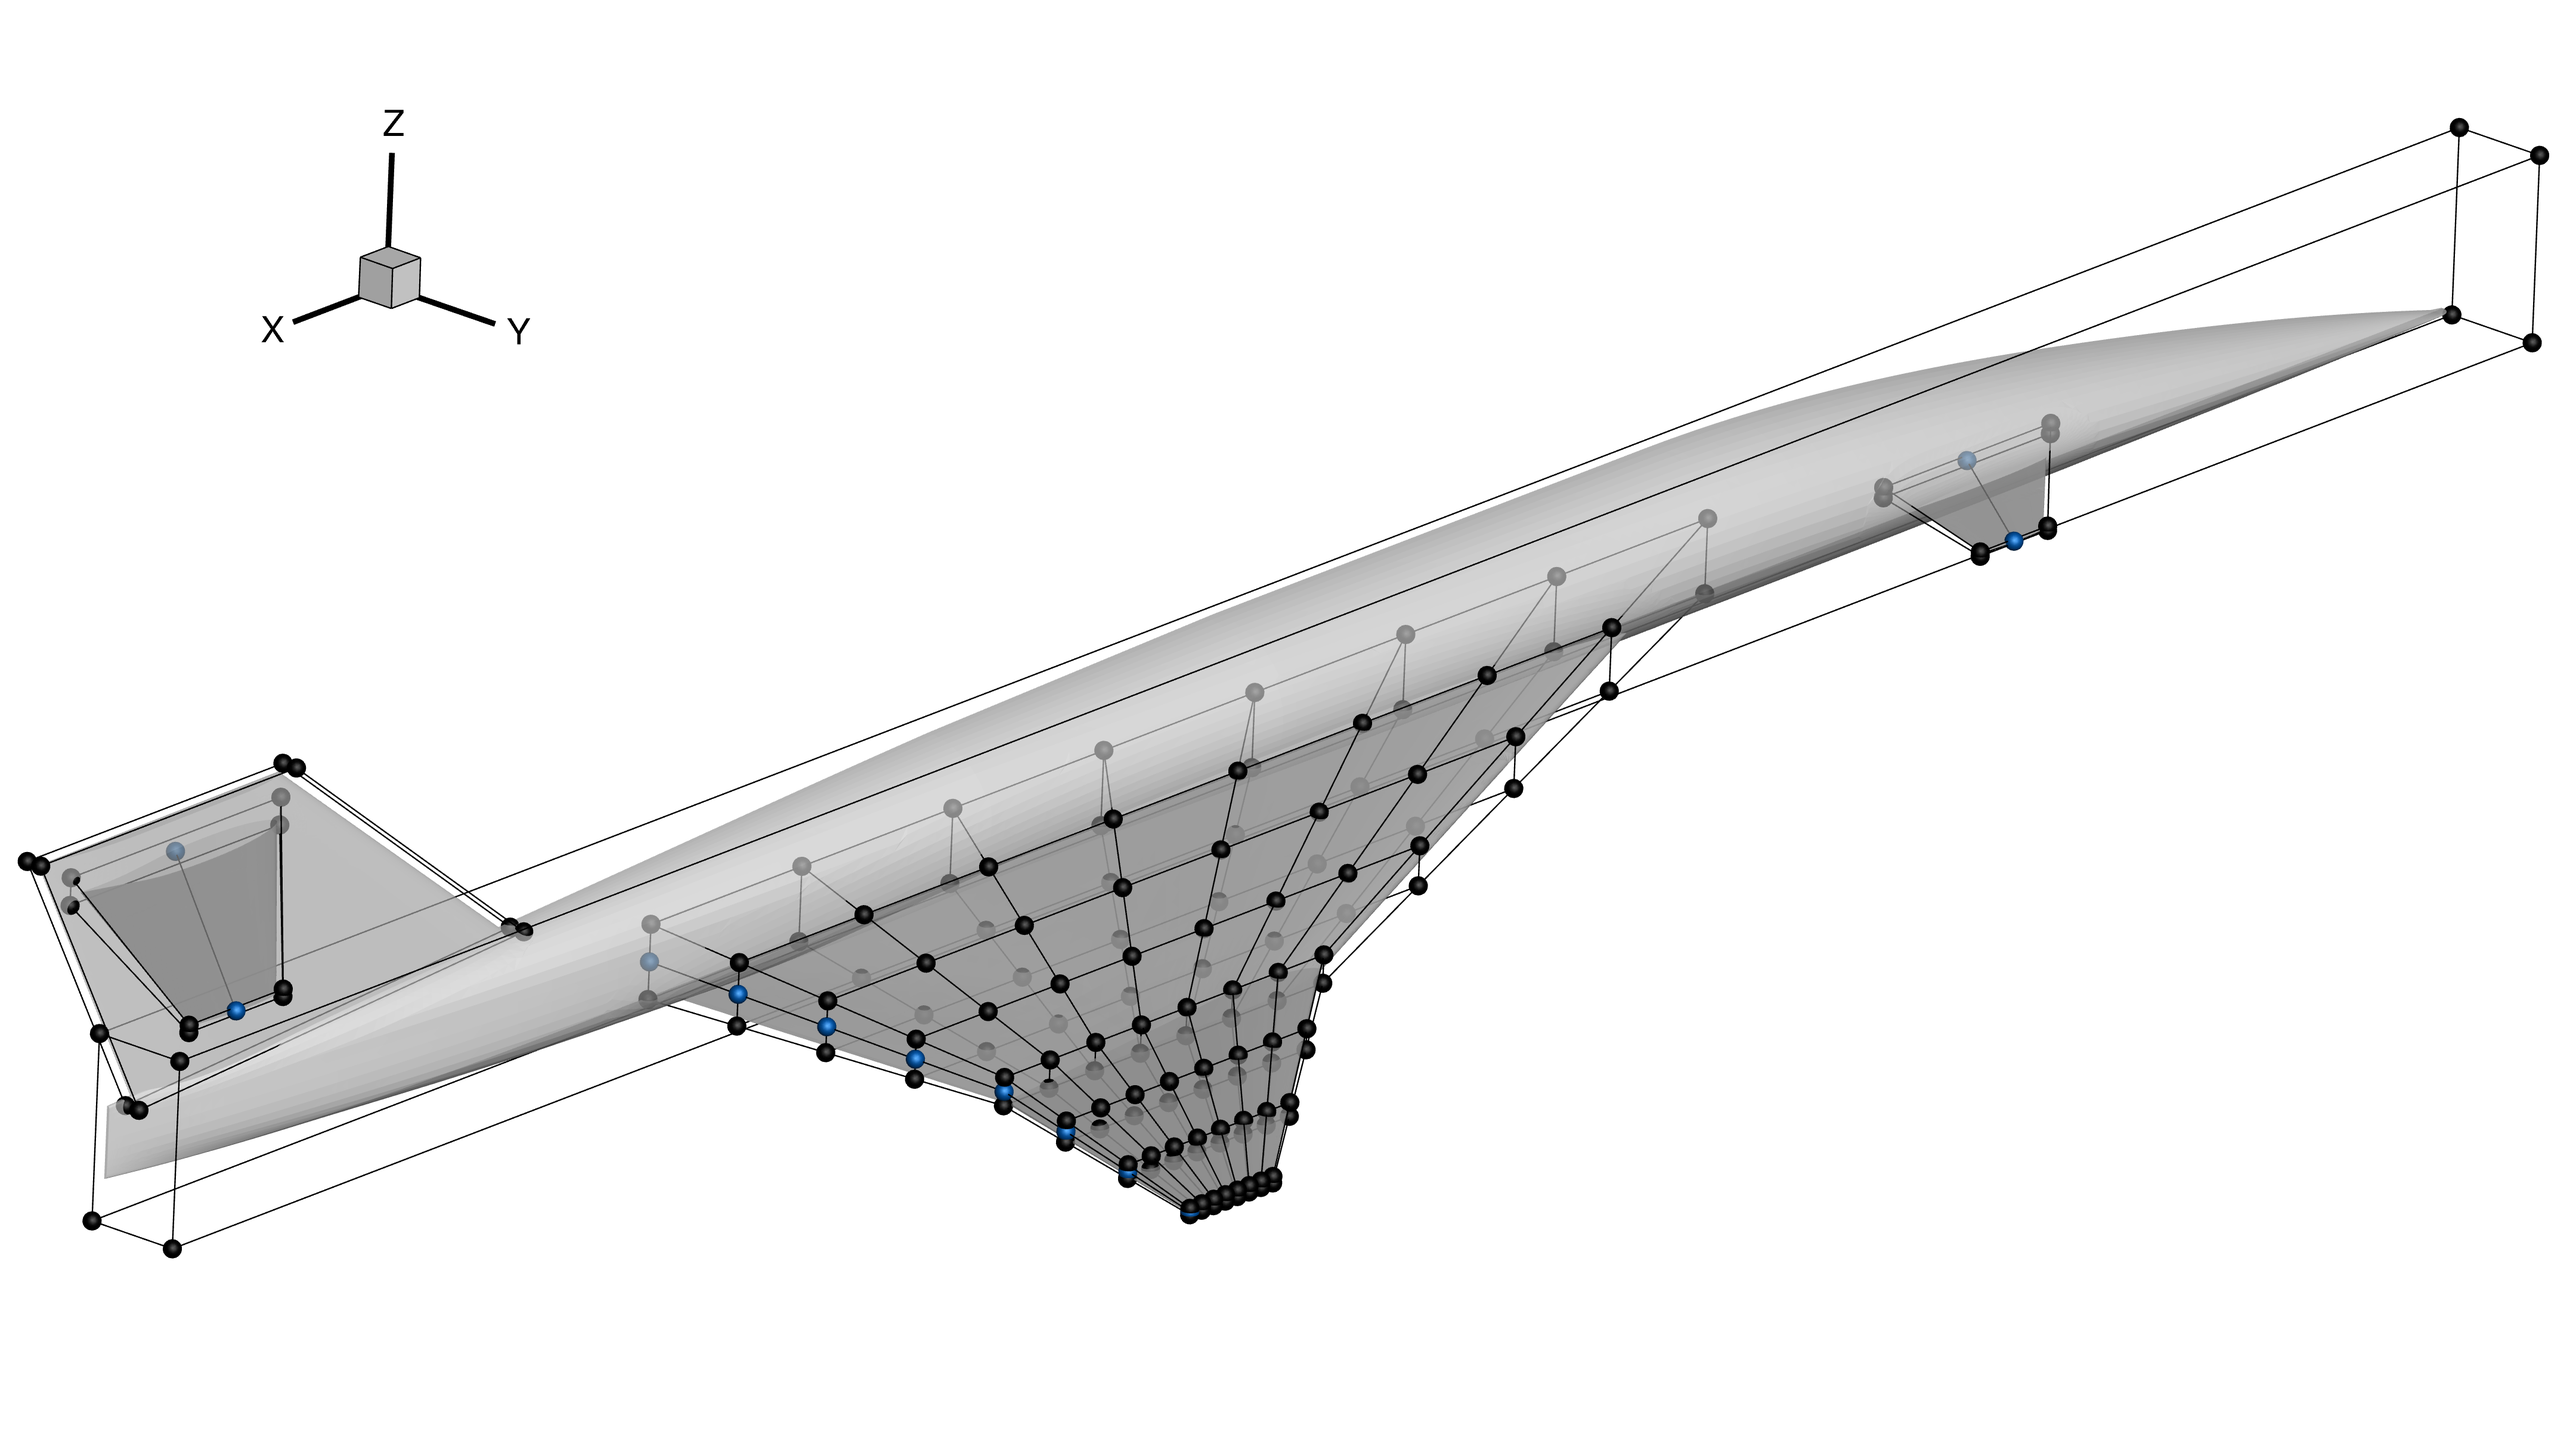
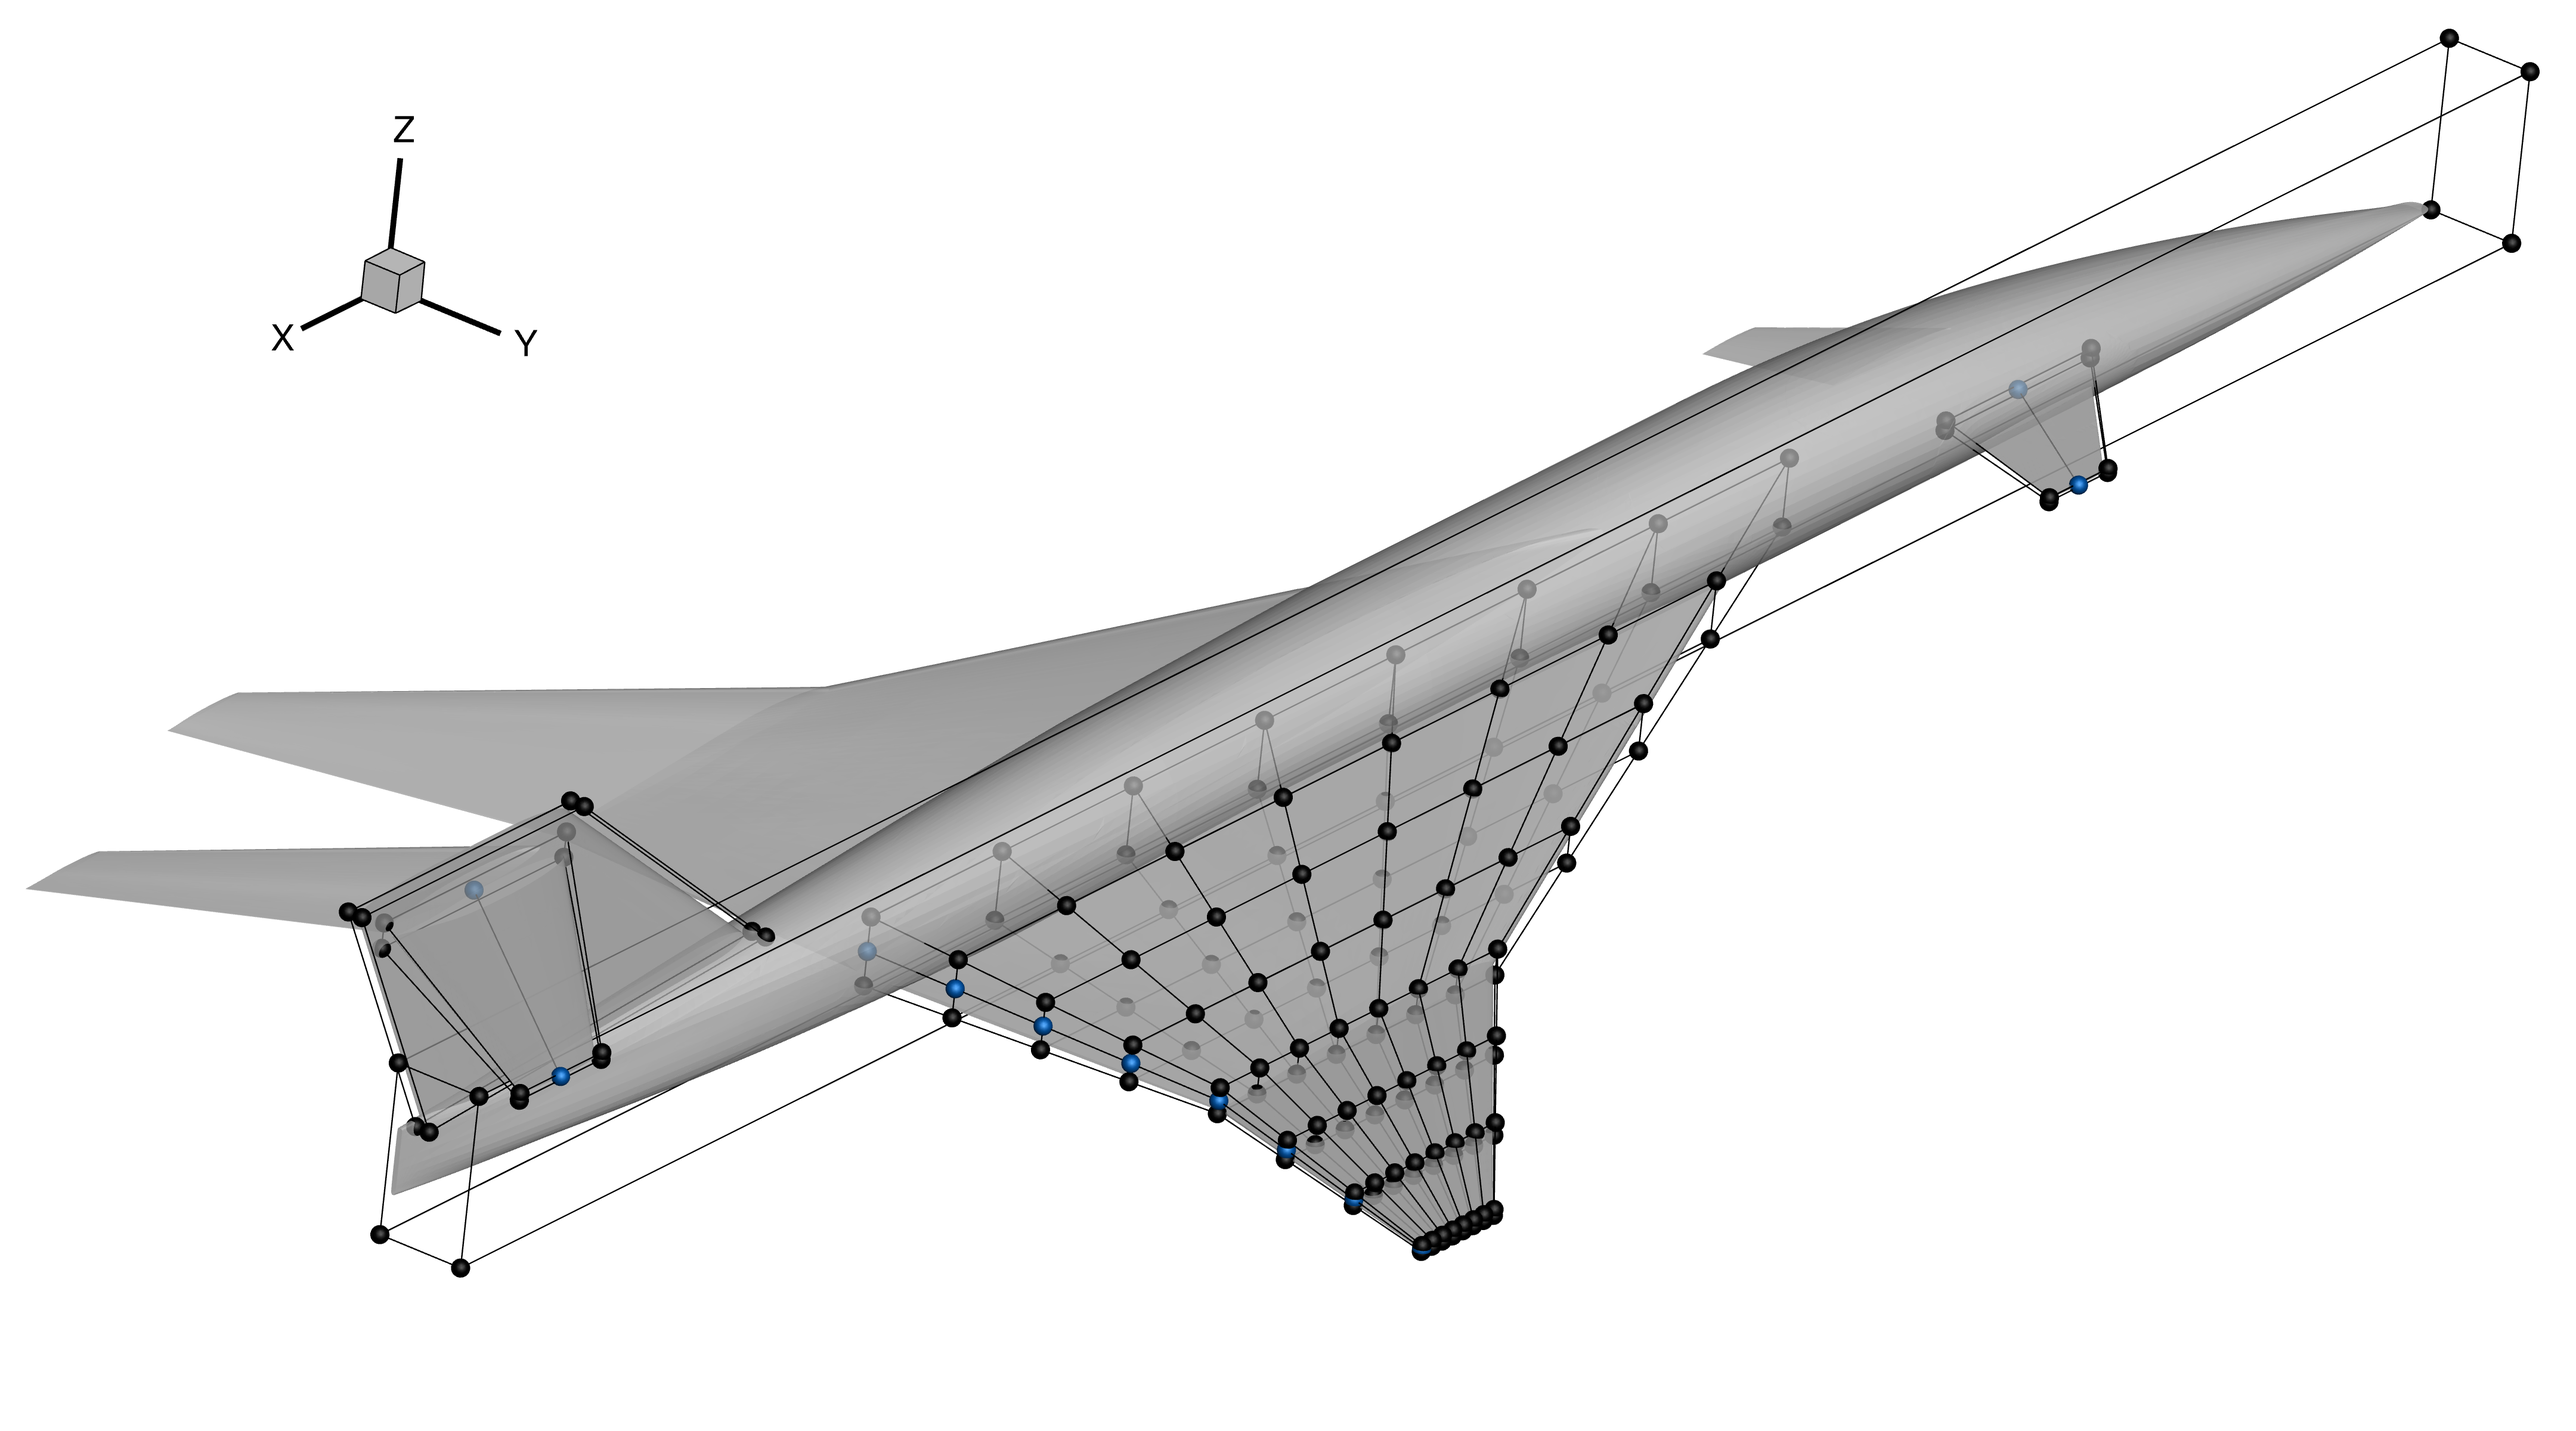
updated multi FFD figure

diff --git a/paper/paper.md b/paper/paper.md
@@ -166,7 +166,8 @@ This method relies on the open-source pySurf package [@Secco2018b] to compute in
 
 ![Example of FFD parameterization with intersecting components [@Seraj2022a]. \label{fig:ffd_multi}](ffd_multi.png)
 
-<!-- % [ ] TODO JM-: show the other side of the geometry for aesthetics, like Fig. 6? But without the FFD? -->
+<!-- % [x] TODO JM-: show the other side of the geometry for aesthetics, like Fig. 6? But without the FFD? -->
+<!-- SS: Done. -->
 
 ### Parametric Geometry Tools
 
